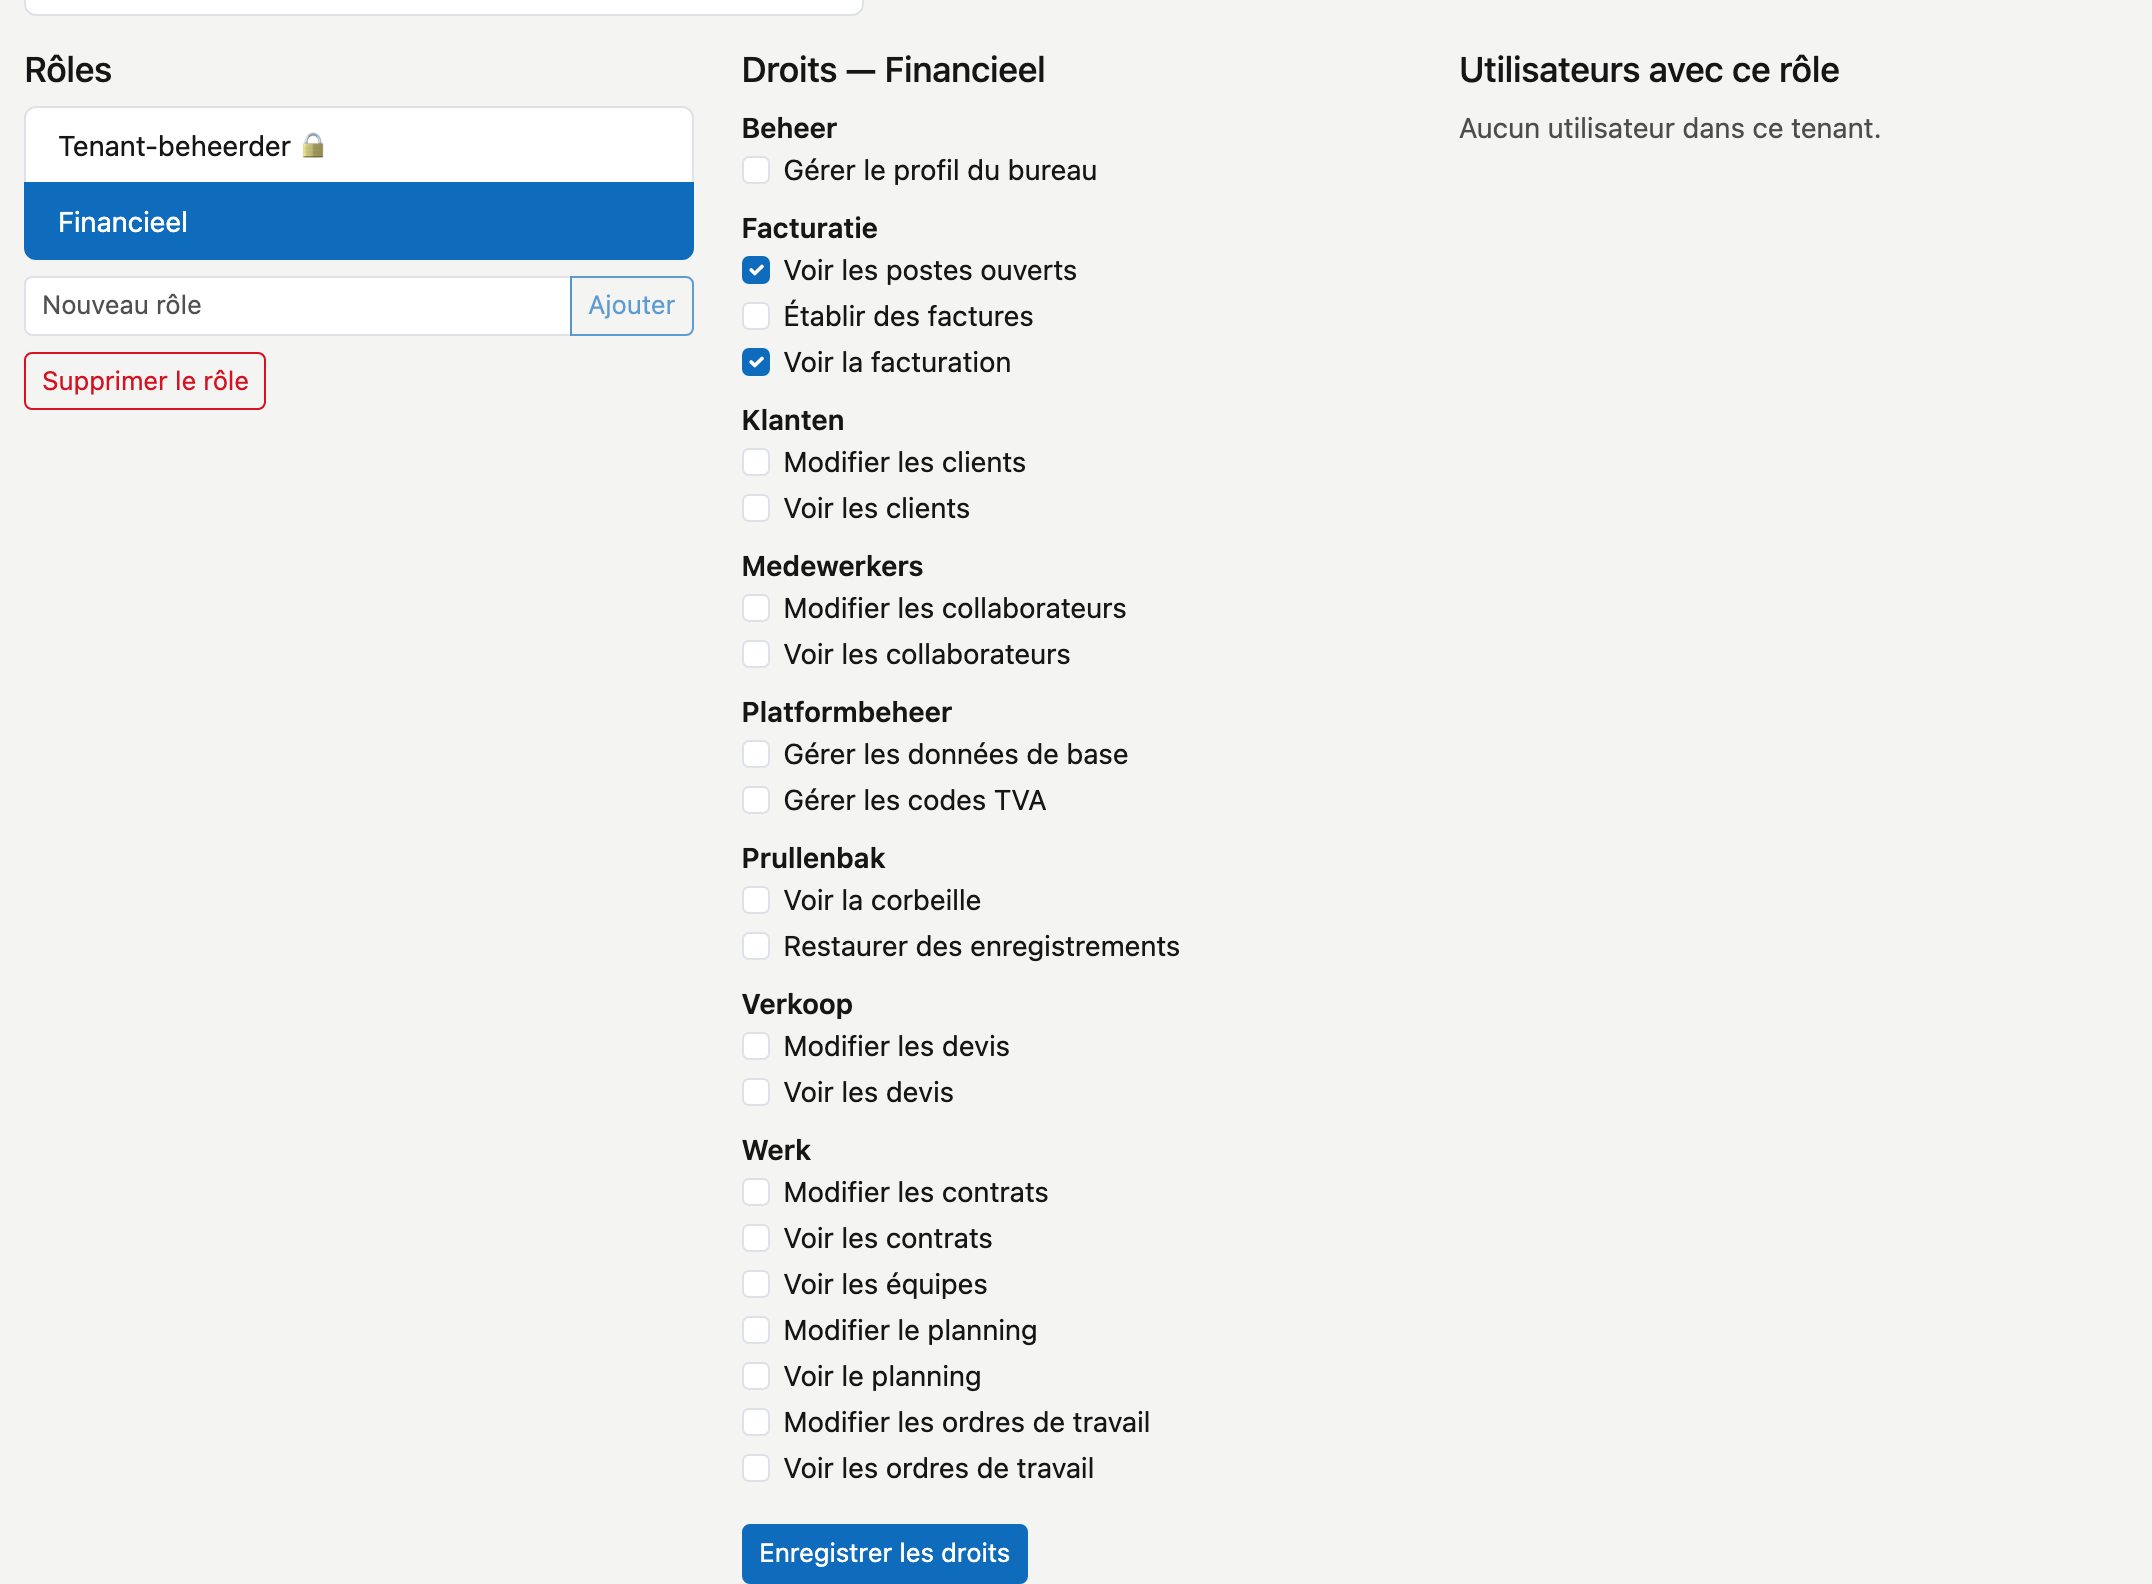
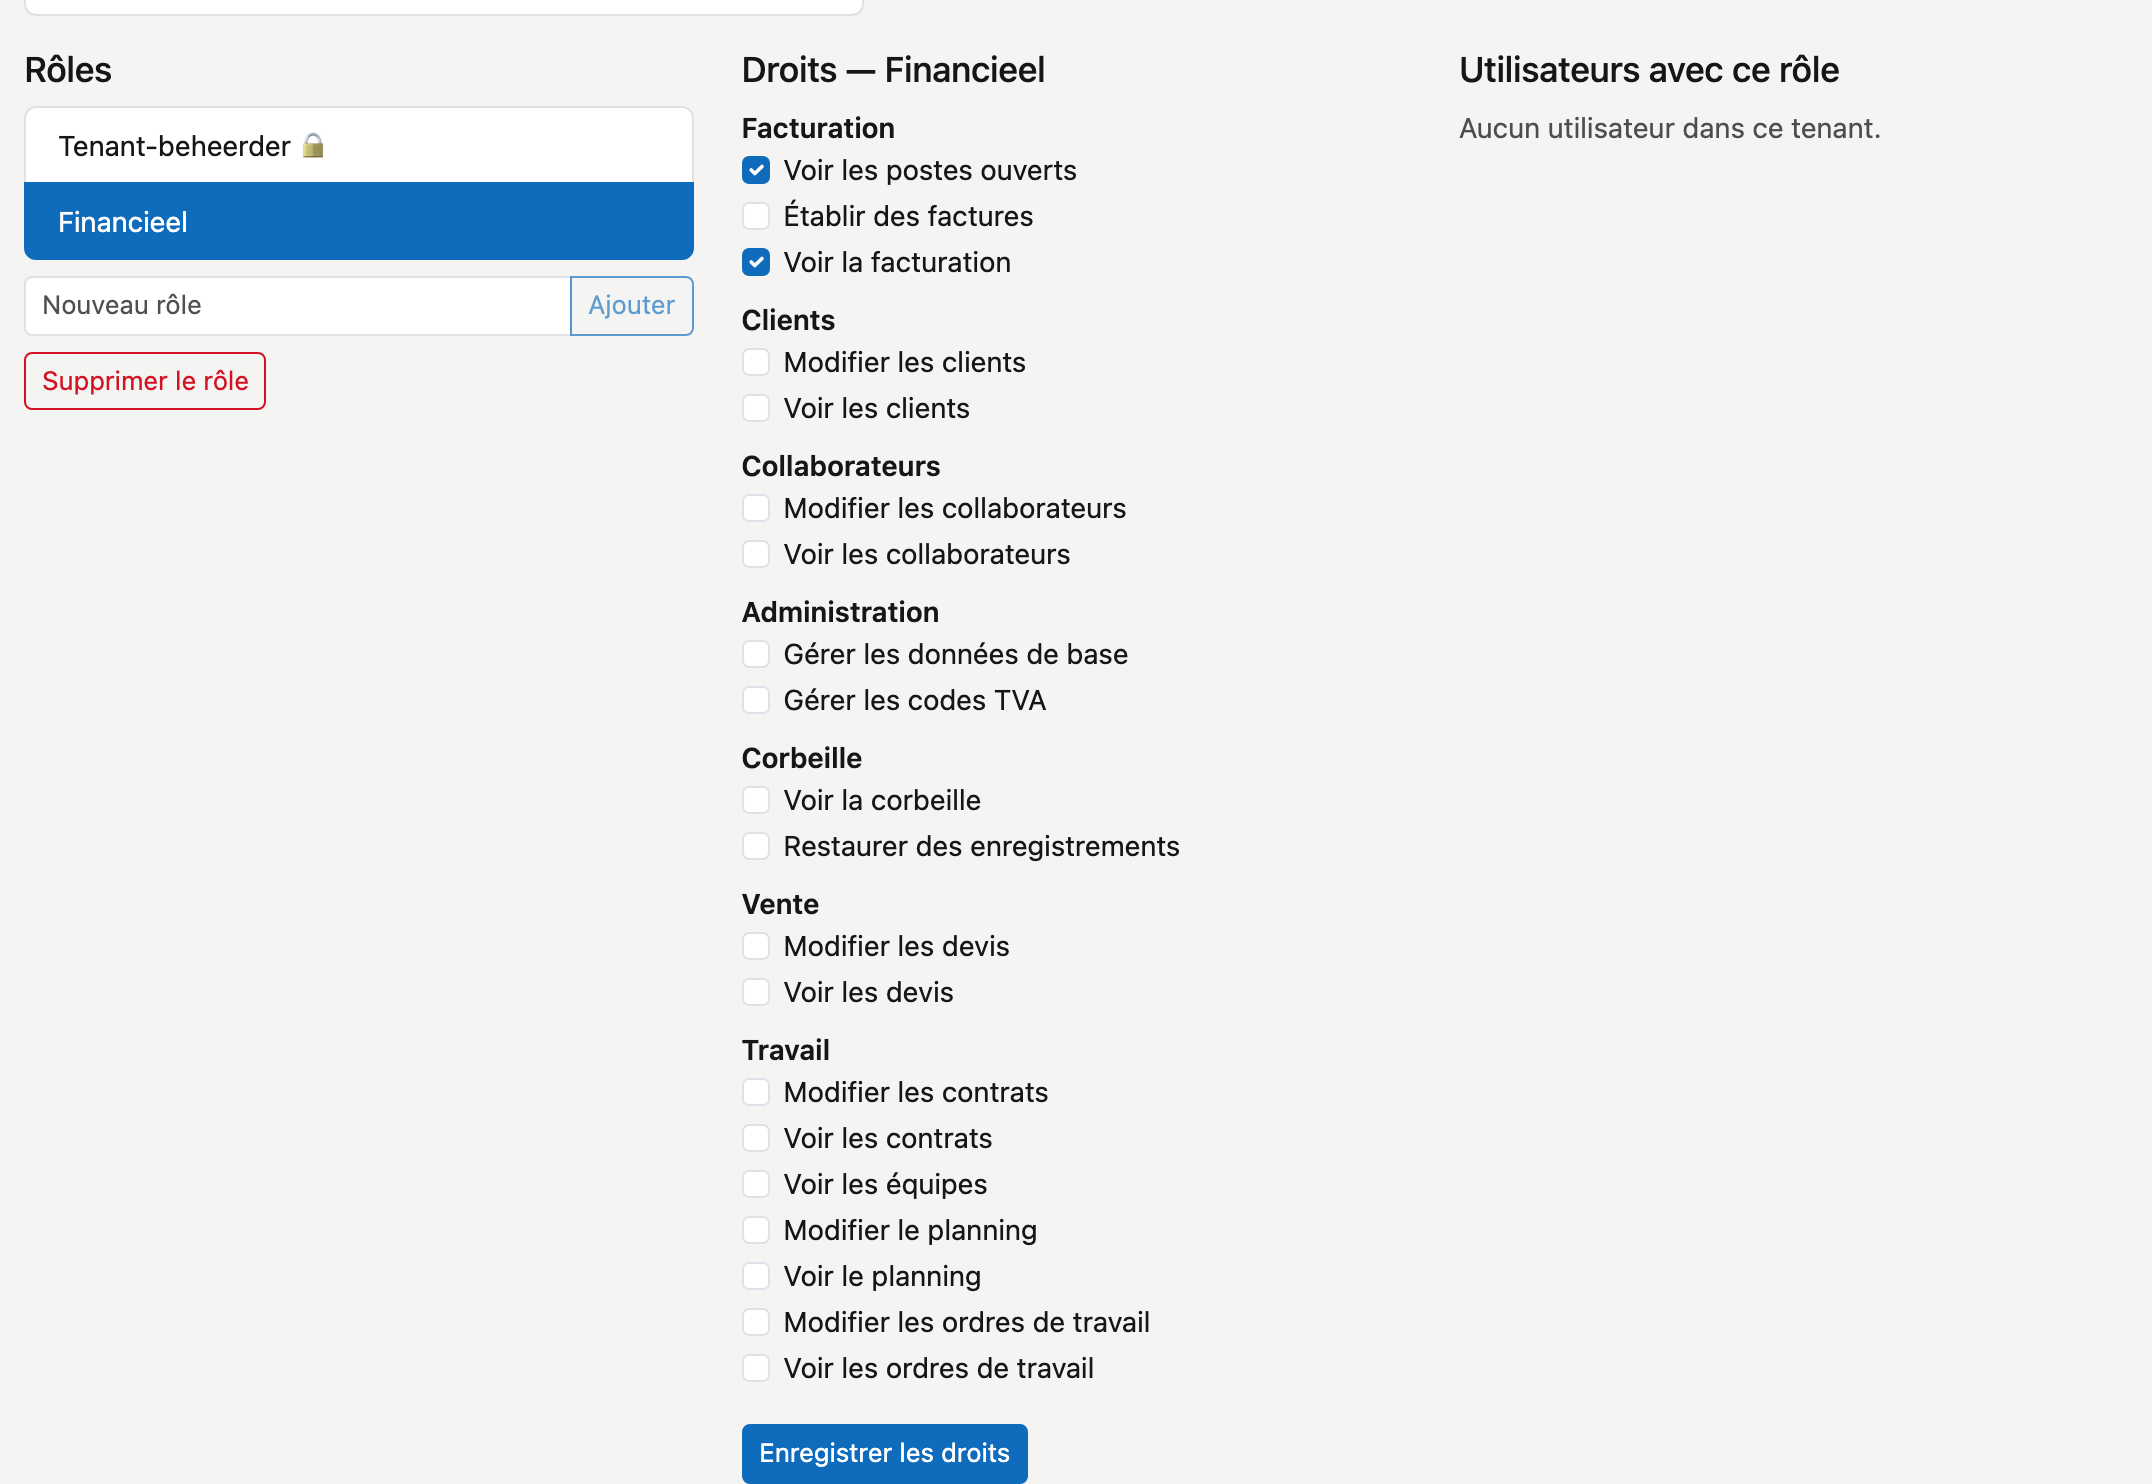
Rollen na AppKit 0.427.0: de laatste Tenant-beheerder kan niet meer uitgevinkt worden, Franse groepskoppen — waarschuwingen weg, beeld opnieuw (NL/FR)
In de preview nagemeten (29/09/2026): uitvinken van de enige Tenant-beheerder wordt geweigerd met een melding, het vinkje
blijft aan (databank: 1 koppeling). In het Frans: Facturation, Clients, Collaborateurs, Administration, Corbeille, Vente,
Travail en het label "Utilisateur"; "Kantoorprofiel beheren" en de groep "Beheer" zijn weg. De waarschuwing "CleanOps houdt
dat niet tegen" en de FR-notitie over Nederlandse koppen zijn daarom weg; de pagina zegt nu dat CleanOps het weigert.

Changed region(s): [[0.0, 0.031, 0.5604, 0.9919], [0.6849, 0.031, 0.8717, 0.093]]

diff --git a/docs/beheer/rollen.fr.md b/docs/beheer/rollen.fr.md
@@ -12,10 +12,10 @@ Dans la barre latérale, cliquez sur **Administration**, puis sur la tuile **Rô
 
 ## Comment les droits s'additionnent
 
-Chaque utilisateur a un **rôle de base**, affiché comme étiquette à côté de son nom (p. ex. **Gebruiker**, c'est-à-dire
-« utilisateur »). Ce rôle de base permet de tout consulter, sauf la partie financière, et ne permet rien modifier.
+Chaque utilisateur a un **rôle de base**, affiché comme étiquette à côté de son nom (p. ex. **Utilisateur**). Ce rôle de
+base permet de tout consulter, sauf la partie financière, et ne permet rien modifier.
 
-Les rôles de cet écran s'y **ajoutent**. Une personne avec le rôle de base Gebruiker et le rôle Financieel peut faire
+Les rôles de cet écran s'y **ajoutent**. Une personne avec le rôle de base Utilisateur et le rôle Financieel peut faire
 tout ce que les deux permettent. Pour qu'un collègue puisse modifier les clients, créez un rôle avec le droit **Modifier
 les clients** et donnez-lui ce rôle.
 
@@ -25,7 +25,8 @@ Les noms de ces deux rôles restent en néerlandais : ce sont des données, pas 
 
 **Tenant-beheerder 🔒** est l'administrateur de votre environnement. Ce rôle possède automatiquement tous les droits,
 y compris ceux qui s'ajouteront plus tard. Vous ne pouvez ni le modifier ni le supprimer. Seul un Tenant-beheerder peut
-gérer les rôles : ce droit ne peut être donné à aucun autre rôle.
+gérer les rôles : ce droit ne peut être donné à aucun autre rôle. C'est pourquoi vous ne pouvez pas décocher le
+**dernier** Tenant-beheerder : CleanOps le refuse et en explique la raison. Donnez d'abord le rôle à une deuxième personne.
 
 **Financieel** est créé d'office pour chaque client. Il porte par défaut deux droits : **Voir la facturation** et
 **Voir les postes ouverts**. Celui qui établit aussi des factures a besoin en plus de **Établir des factures** — cochez-le
@@ -43,9 +44,6 @@ gauche, encore sans droits ni utilisateurs.
 
 Cliquez à gauche sur le rôle. Au milieu figurent les **Droits**, groupés par partie de CleanOps. Cochez ce que ce rôle
 peut faire et cliquez sur **Enregistrer les droits**. En cas de succès, la mention **✓ enregistré** s'affiche.
-
-!!! info
-    Les titres des groupes de droits (Facturatie, Klanten, Werk…) et l'étiquette du rôle de base s'affichent pour l'instant en néerlandais, même en français. Les droits eux-mêmes sont en français.
 
 ## Donner un rôle à quelqu'un
 
@@ -65,9 +63,6 @@ portait le rôle perd les droits qu'il n'avait que par ce rôle. Donnez donc d'a
 Un droit que vous **décochez** masque l'écran **et** le bloque. L'entrée de menu disparaît, et celui qui saisit l'adresse directement n'entre pas davantage. Vous ne devez donc pas raisonner séparément en « visible » et « accessible » : c'est un seul et même réglage.
 
 ## Erreurs fréquentes
-
-!!! warning
-    **Ne décochez pas le dernier Tenant-beheerder.** CleanOps ne l'empêche pas. Si plus personne dans votre environnement ne porte ce rôle, plus personne chez vous ne peut gérer les rôles — vous non plus. Donnez d'abord le rôle Tenant-beheerder à une deuxième personne. Si c'est déjà arrivé, contactez ADM-Concept.
 
 !!! info
     **Un rôle ajouté ou retiré s'applique à la prochaine connexion.** Une personne en train de travailler ne le remarquera qu'après s'être déconnectée et reconnectée. Demandez-le-lui si c'est urgent.

diff --git a/docs/beheer/rollen.md b/docs/beheer/rollen.md
@@ -23,7 +23,8 @@ hem die rol.
 
 **Tenant-beheerder 🔒** is de beheerder van uw omgeving. Deze rol heeft automatisch álle rechten, ook de rechten die er
 later bij komen. U kunt ze niet bewerken en niet verwijderen. Enkel een Tenant-beheerder kan rollen beheren: dat recht
-kunt u aan geen andere rol geven.
+kunt u aan geen andere rol geven. Daarom kunt u de **laatste** Tenant-beheerder niet uitvinken: CleanOps weigert dat en
+zegt waarom. Geef eerst een tweede persoon de rol.
 
 **Financieel** krijgt elke klant vanzelf. Ze draagt standaard twee rechten: **Facturatie bekijken** en **Openstaande
 posten bekijken**. Wie ook facturen maakt, heeft daarnaast **Facturen opmaken** nodig — vink dat aan bij deze rol, of
@@ -60,9 +61,6 @@ de rechten die hij enkel via deze rol had. Geef die personen dus eerst een ander
 Een recht dat u **uitvinkt**, verbergt het scherm én blokkeert het. De menu-ingang verdwijnt, en wie het adres rechtstreeks intypt komt er evenmin binnen. U hoeft dus niet apart na te denken over "zichtbaar" en "toegankelijk" — dat is één en dezelfde instelling.
 
 ## Veelgemaakte fouten
-
-!!! warning
-    **Vink de laatste Tenant-beheerder niet uit.** CleanOps houdt dat niet tegen. Heeft niemand in uw omgeving die rol nog, dan kan niemand bij u nog rollen beheren — ook u niet. Geef eerst een tweede persoon de rol Tenant-beheerder. Is het toch gebeurd, neem dan contact op met ADM-Concept.
 
 !!! info
     **Een nieuwe of afgenomen rol geldt vanaf de volgende aanmelding.** Iemand die op dit moment werkt, merkt het pas nadat hij zich afmeldt en opnieuw aanmeldt. Vraag de persoon dat te doen wanneer het dringend is.
